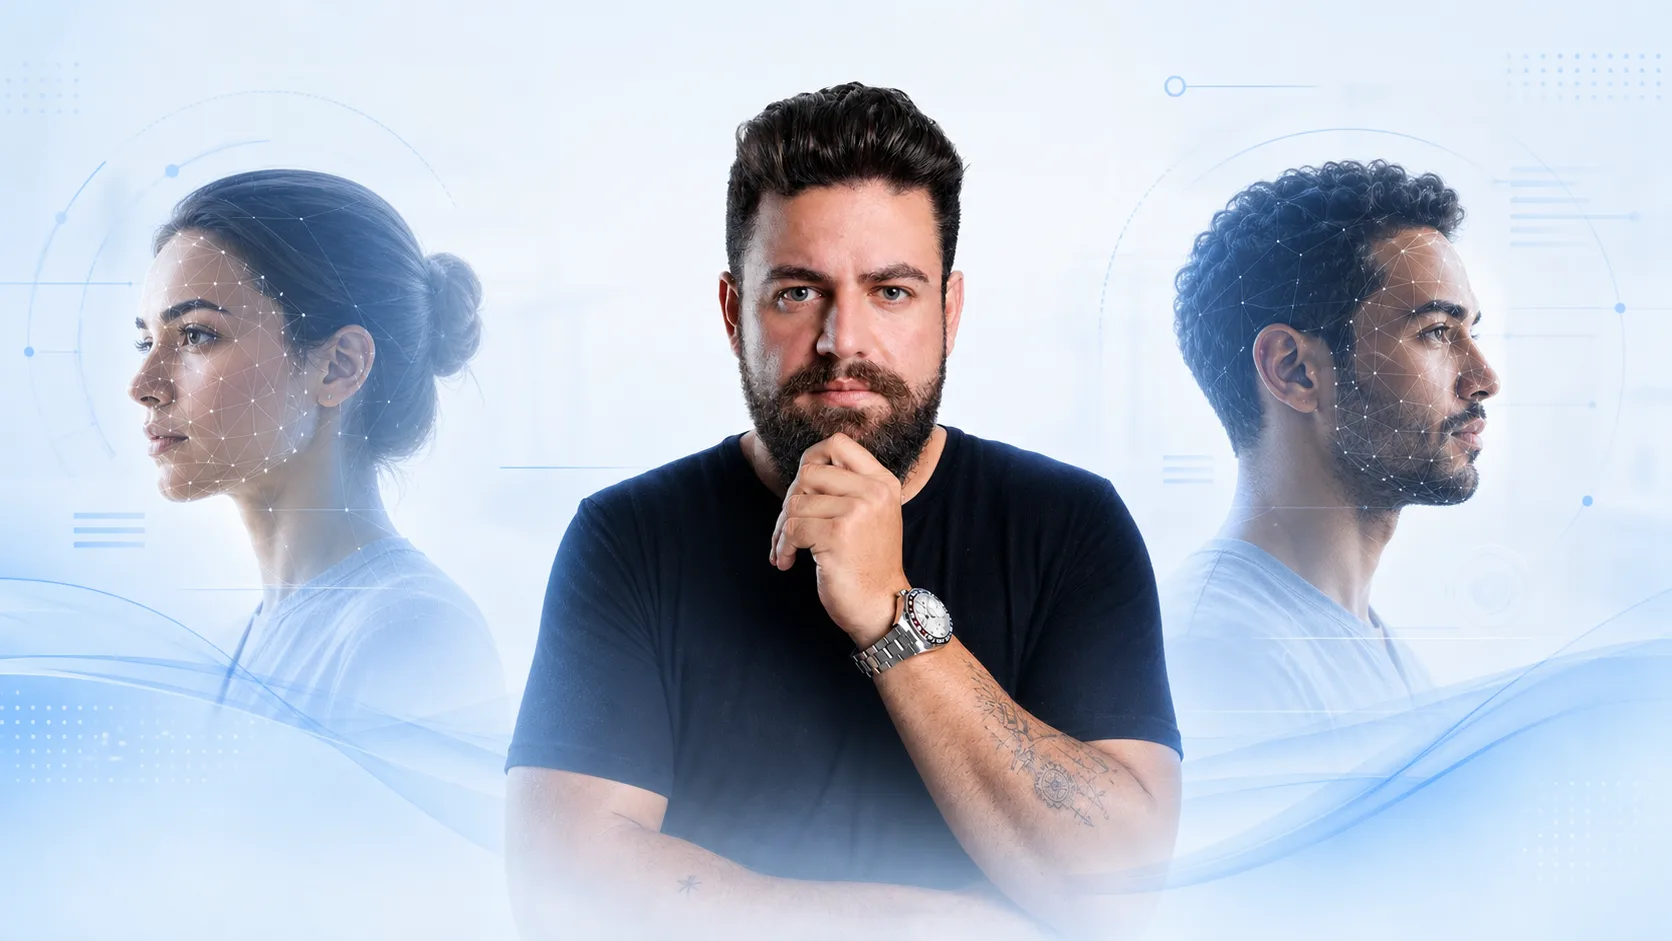
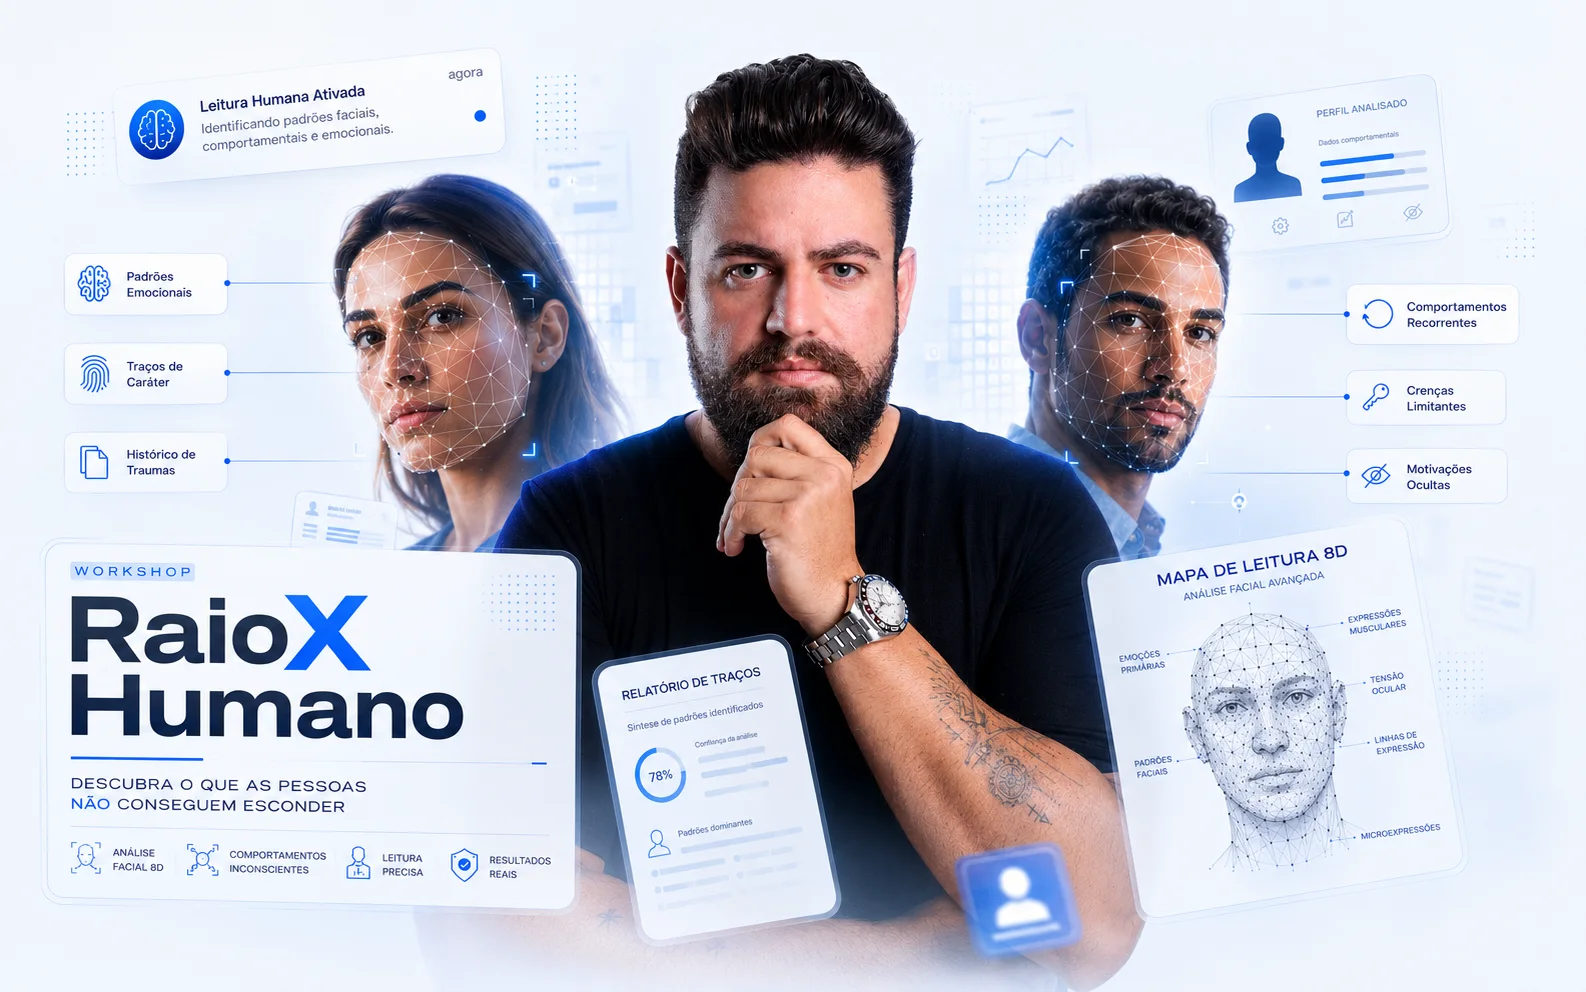
Atualiza hero visual do Raio X 01

diff --git a/raiox01/index.html b/raiox01/index.html
@@ -7,7 +7,7 @@
   <meta name="description" content="Descubra quanto pode estar passando despercebido pelo seu olhar ao analisar rosto, corpo e comportamento.">
   <link rel="preconnect" href="https://fonts.googleapis.com">
   <link rel="preconnect" href="https://fonts.gstatic.com" crossorigin>
-  <link rel="preload" href="/raio-x-hero-wide.webp" as="image" fetchpriority="high">
+  <link rel="preload" href="/raio-x-hero-wide.webp?v=2" as="image" fetchpriority="high">
   <link href="https://fonts.googleapis.com/css2?family=Inter:wght@400;500;600;700;800;900&family=Libre+Baskerville:wght@400;700&display=swap" rel="stylesheet">
   <link rel="stylesheet" href="/raiox01/raiox01.css?v=7">
   <link rel="preload" href="https://scripts.converteai.net/a07c65c7-f155-44ff-8522-402ada1630b9/players/6a42eb103f9c960ae39bbb50/v4/player.js" as="script">

diff --git a/raiox01/raiox01.js b/raiox01/raiox01.js
@@ -229,7 +229,7 @@ function renderOpening() {
     <span class="eyebrow">Workshop Raio-X Humano</span>
     <h1 class="opening-title">Você acredita que é possível descobrir muito sobre uma pessoa apenas observando seu rosto e o formato do seu corpo?</h1>
     <figure class="raiox-hero-visual">
-      <img src="/raio-x-hero-wide.webp" alt="Leitura de traços do rosto e comportamento humano" width="1672" height="941">
+      <img src="/raio-x-hero-wide.webp?v=2" alt="Leitura de traços do rosto e comportamento humano" width="1586" height="992">
       <span class="raiox-scan-line" aria-hidden="true"></span>
     </figure>
     <p class="lead opening-promise">Em apenas <strong>2 noites ao vivo</strong>, vou mostrar quais sinais passam despercebidos para a maioria das pessoas e como essa habilidade pode ajudar você a:</p>